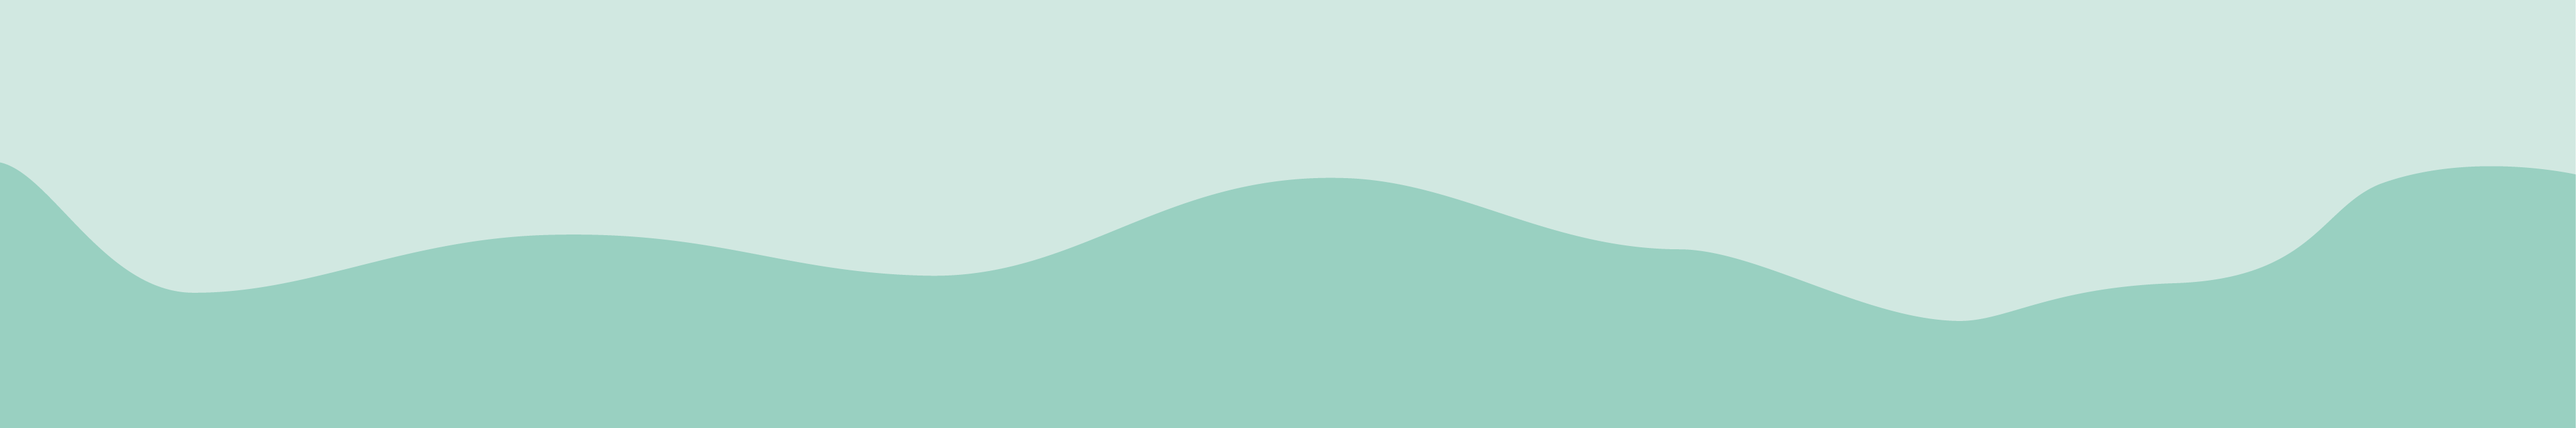
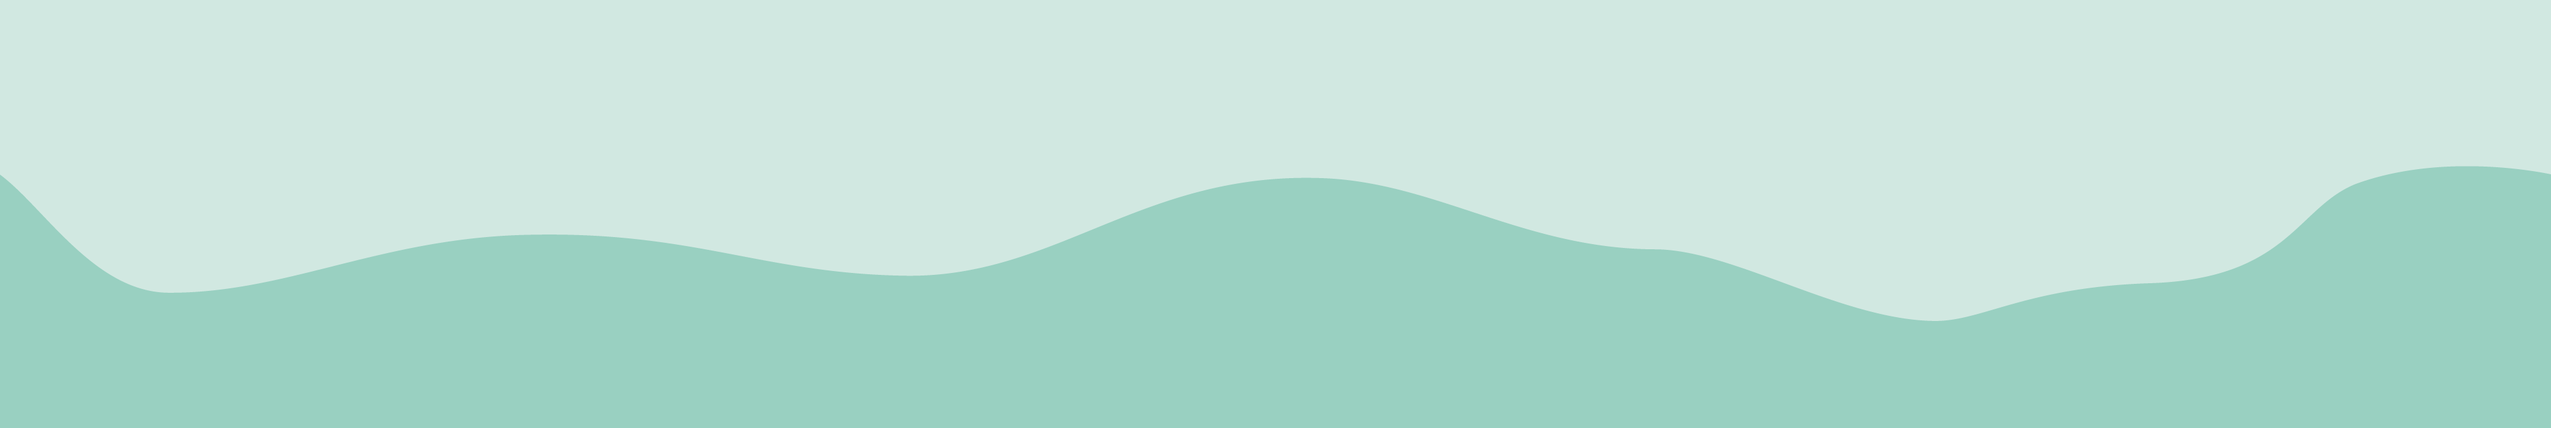
OS2ULF-473: Updated ulf_vejle styles and graphics

diff --git a/css/ulf-styles-vejle.css b/css/ulf-styles-vejle.css
@@ -1,1 +1,1 @@
-.search-results--result,.teaser{display:-webkit-box;display:-webkit-flex;display:-moz-flex;display:-ms-flexbox;display:flex;-webkit-flex-flow:row nowrap;-moz-flex-flow:row nowrap;-ms-flex-flow:row nowrap;flex-flow:row nowrap;-webkit-align-content:stretch;-moz-align-content:stretch;-ms-flex-line-pack:stretch;align-content:stretch;-webkit-box-flex:0;-webkit-flex:0 1 100%;-moz-box-flex:0;-moz-flex:0 1 100%;-ms-flex:0 1 100%;flex:0 1 100%;min-width:0;box-sizing:border-box;position:relative;margin-bottom:2em;border:1px solid #d9d9d9}.is-dagtilbud.search-results--result,.is-dagtilbud.teaser{border-bottom:6px solid #66212f}.is-grundskole.search-results--result,.is-grundskole.teaser{border-bottom:6px solid #23356e}.is-ungdomsuddannelse.search-results--result,.is-ungdomsuddannelse.teaser{border-bottom:6px solid #004139}.is-course.search-results--result,.is-course.teaser{border-bottom:6px solid #57256e}@media only screen and (min-width: 55em){.search-results--result,.teaser{-webkit-box-flex:0;-webkit-flex:0 1 49%;-moz-box-flex:0;-moz-flex:0 1 49%;-ms-flex:0 1 49%;flex:0 1 49%}}.search-results--result header,.teaser header{-webkit-box-ordinal-group:3;-webkit-order:2;-moz-order:2;-ms-flex-order:2;order:2;box-sizing:border-box;padding:1em 1em 0;width:100%}.search-results--result figure,.teaser figure{min-width:0px;-webkit-box-ordinal-group:2;-webkit-order:1;-moz-order:1;-ms-flex-order:1;order:1;-webkit-box-flex:0;-webkit-flex:0 0 100px;-moz-box-flex:0;-moz-flex:0 0 100px;-ms-flex:0 0 100px;flex:0 0 100px}@media only screen and (min-width: 500px){.search-results--result figure,.teaser figure{-webkit-box-flex:0;-webkit-flex:0 0 200px;-moz-box-flex:0;-moz-flex:0 0 200px;-ms-flex:0 0 200px;flex:0 0 200px}}.form-submit,.button,.teaser--list-button,.block--pdf-link,.search--filter-search-submit[type="submit"],.search--filter-dropdown-submit,.entity-paragraphs-item .btn{position:relative;border:1px solid #4a8311;display:inline-block;padding:.4em 1.5em;background-color:#4a8311;color:#fff;cursor:pointer;font-size:100%;text-align:center}.form-submit:focus,.button:focus,.teaser--list-button:focus,.block--pdf-link:focus,.search--filter-search-submit:focus[type="submit"],.search--filter-dropdown-submit:focus,.entity-paragraphs-item .btn:focus,.form-submit:hover,.button:hover,.teaser--list-button:hover,.block--pdf-link:hover,.search--filter-search-submit:hover[type="submit"],.search--filter-dropdown-submit:hover,.entity-paragraphs-item .btn:hover,.form-submit:active,.button:active,.teaser--list-button:active,.block--pdf-link:active,.search--filter-search-submit:active[type="submit"],.search--filter-dropdown-submit:active,.entity-paragraphs-item .btn:active{text-decoration:none;background-color:#31560b;border-color:#31560b}.form-submit,.button,.teaser--list-button{background-color:#4a8311;border:1px solid #4a8311;color:#fff}.form-submit:link,.button:link,.teaser--list-button:link{color:#fff;text-decoration:none}.form-submit:visited,.button:visited,.teaser--list-button:visited{color:#fff;text-decoration:none}.form-submit:hover,.button:hover,.teaser--list-button:hover{color:#fff;text-decoration:none}.form-submit:focus,.button:focus,.teaser--list-button:focus{color:#fff;text-decoration:none}.form-submit:hover,.button:hover,.teaser--list-button:hover{background-color:#31560b;border-color:#31560b}.form-submit:link,.button:link,.teaser--list-button:link{color:#fff;text-decoration:none}body{background:#57256e;font:14px/1.3 "K2D",sans-serif;color:#333}a:link{color:#4a8311;text-decoration:underline}a:visited{color:#3d6c0e}a:hover{color:#31560b;text-decoration:none}a:focus{color:#31560b}.footer{background:#57256e;color:#fff}.footer hr{border-color:#fff}.footer a:link{color:#fff;text-decoration:underline}.footer a:visited{color:#fff;text-decoration:underline}.footer a:hover{color:#fff;text-decoration:underline}.footer a:focus{color:#fff;text-decoration:underline}.sliding-popup-bottom{border-top:2px solid #fff}.footer--eu-compliance-text{color:#fff}#sliding-popup .popup-content #popup-buttons button{background:#4a8311;color:#fff}#sliding-popup .popup-content #popup-buttons button:hover{background:#4a8311}.field--title{background:rgba(255,255,255,0.7);border-color:#17858c}.field--title.is-dagtilbud{border-color:#66212f}.field--title.is-grundskole{border-color:#23356e}.field--title.is-ungdomsuddannelse{border-color:#004139}.field--title.is-course{border-color:#57256e}.field--title.is-profile{border-color:#4a8311}.field--collection-label{color:#fff;background:#4a8311}.nav--static-pages.is-node .nav--list-item-sub a:link{color:#4a8311;text-decoration:none}.nav--static-pages.is-node .nav--list-item-sub a:visited{color:#4a8311;text-decoration:none}.nav--static-pages.is-node .nav--list-item-sub a:hover{color:#4a8311;text-decoration:none}.nav--static-pages.is-node .nav--list-item-sub a:focus{color:#4a8311;text-decoration:none}.block--dark{background:gray;color:#fff}.block--dark a:link{color:#fff;text-decoration:underline}.block--dark a:visited{color:#fff;text-decoration:underline}.block--dark a:hover{color:#fff;text-decoration:underline}.block--dark a:focus{color:#fff;text-decoration:underline}.block--light{background:#ccc}.block--light a:link{color:#4a8311;text-decoration:underline}.block--light a:visited{color:#4a8311;text-decoration:underline}.block--light a:hover{color:#4a8311;text-decoration:underline}.block--light a:focus{color:#4a8311;text-decoration:underline}.block--pdf-link:link{color:#fff;text-decoration:none}.block--pdf-link:visited{color:#fff;text-decoration:none}.block--pdf-link:hover{color:#fff;text-decoration:none}.block--pdf-link:focus{color:#fff;text-decoration:none}.block--newsletter.is-front .form-type-emailfield>input{margin-bottom:1em}.block--field-wrapper{border-bottom:1px solid #fff}.header{height:85px;background:#fff}@media only screen and (min-width: 45em){.header{height:160px;background-image:url(../images/header-bg.png);background-repeat:no-repeat;background-position:center top}}.header--toggle-mobile-nav{background:none}.header--logo-image{height:60px;position:relative;left:2px}@media only screen and (min-width: 45em){.header--logo-image{height:auto;left:0px}}.search--widget{background:#e6e6e6;color:rgba(0,0,0,0.5)}.search--widget.is-daycare,.search--widget.is-daycare .search--filter-dropdown,.search--widget.is-daycare .search--filter-dropdown-submit,.search--widget.is-daycare .search--widget-selected,.search--widget.is-daycare .search--filter-search-submit{background:#66212f;border-color:#66212f}.search--widget.is-school,.search--widget.is-school .search--filter-dropdown,.search--widget.is-school .search--filter-dropdown-submit,.search--widget.is-school .search--widget-selected,.search--widget.is-school .search--filter-search-submit{background:#23356e;border-color:#23356e}.search--widget.is-youth,.search--widget.is-youth .search--filter-dropdown,.search--widget.is-youth .search--filter-dropdown-submit,.search--widget.is-youth .search--widget-selected,.search--widget.is-youth .search--filter-search-submit{background:#004139;border-color:#004139}.search--widget.is-course,.search--widget.is-course .search--filter-dropdown,.search--widget.is-course .search--filter-dropdown-submit,.search--widget.is-course .search--widget-selected,.search--widget.is-course .search--filter-search-submit{background:#57256e;border-color:#57256e}.search--filter-dropdown-header{padding:20px 0 16px}.search--filter-wrapper-user{background:#666}.search--filter-wrapper-inner{background:rgba(255,255,255,0.85)}.search--filter-search-text[type="text"]{border:1px solid #b3b3b3}.search--filter-search-submit[type="submit"]{padding:.4em 1.5em;max-width:35%;position:absolute;right:0}.search--filter-span-text[type="text"]{border:1px solid #b3b3b3}.search--filter-label:link{color:rgba(0,0,0,0.5);text-decoration:none}.search--filter-label:visited{color:rgba(0,0,0,0.5);text-decoration:none}.search--filter-label:hover{color:rgba(0,0,0,0.5);text-decoration:none}.search--filter-label:focus{color:rgba(0,0,0,0.5);text-decoration:none}.search--filter-dropdown{box-shadow:3px 3px 6px gray}.search--filter-dropdown-inner{background:rgba(255,255,255,0.85)}.search--filter-dropdown-submit{display:block;margin:16px;font-size:.9em;padding:.1em 2em}.search--filter-dropdown-submit:link{color:#fff;text-decoration:none}.search--filter-dropdown-submit:visited{color:#fff;text-decoration:none}.search--filter-dropdown-submit:hover{color:#fff;text-decoration:none}.search--filter-dropdown-submit:focus{color:#fff;text-decoration:none}.search--filter-dropdown .disabled{color:rgba(0,0,0,0.2)}.search--widget-filters{background:#e6e6e6}.search--widget-selected{background:#fff}.search--widget-selected-item{background-color:rgba(255,255,255,0.85);border-color:rgba(255,255,255,0.85);color:#999}.search--reset{color:#4d4d4d}.is-course .search--filter-search-submit,.is-daycare .search--filter-search-submit{color:#fff}.teaser--group-inner:link{color:#fff;text-decoration:none}.teaser--group-inner:visited{color:#fff;text-decoration:none}.teaser--group-inner:hover{color:#fff;text-decoration:none}.teaser--group-inner:focus{color:#fff;text-decoration:none}.teaser--group-inner:hover .teaser--group-text.is-dagtilbud{background:#66212f}.teaser--group-inner:hover .teaser--group-text.is-grundskole{background:#23356e}.teaser--group-inner:hover .teaser--group-text.is-ungdomsuddannelse{background:#004139}.teaser--group-inner:hover .teaser--group-text.is-course{background:#57256e}.teaser--group-text{height:90px}.teaser--group-text.is-dagtilbud{background:rgba(102,33,47,0.7)}.teaser--group-text.is-grundskole{background:rgba(35,53,110,0.7)}.teaser--group-text.is-ungdomsuddannelse{background:rgba(0,65,57,0.7)}.teaser--group-text.is-course{background:rgba(102,33,47,0.7)}.teaser--content-header{background-color:#e6e6e6}.teaser{background:#fff}.teaser--list__fullwidth{display:block}.teaser--list__fullwidth .teaser{margin-bottom:0}.teaser--list-button{margin:0 auto}.is-dagtilbud .ribbon{background:#66212f}.is-grundskole .ribbon{background:#23356e}.is-ungdomsuddannelse .ribbon{background:#004139}.ribbon a,.ribbon a:hover{color:#fff;text-decoration:none;border-color:#fff;border-color:rgba(255,255,255,0.7)}.entity-paragraphs-item .btn:link{color:#fff;text-decoration:none}.entity-paragraphs-item .btn:visited{color:#fff;text-decoration:none}.entity-paragraphs-item .btn:hover{color:#fff;text-decoration:none}.entity-paragraphs-item .btn:focus{color:#fff;text-decoration:none}
+.search-results--result,.teaser{display:-webkit-box;display:-webkit-flex;display:-moz-flex;display:-ms-flexbox;display:flex;-webkit-flex-flow:row nowrap;-moz-flex-flow:row nowrap;-ms-flex-flow:row nowrap;flex-flow:row nowrap;-webkit-align-content:stretch;-moz-align-content:stretch;-ms-flex-line-pack:stretch;align-content:stretch;-webkit-box-flex:0;-webkit-flex:0 1 100%;-moz-box-flex:0;-moz-flex:0 1 100%;-ms-flex:0 1 100%;flex:0 1 100%;min-width:0;box-sizing:border-box;position:relative;margin-bottom:2em;border:1px solid #d9d9d9}.is-dagtilbud.search-results--result,.is-dagtilbud.teaser{border-bottom:6px solid #66212f}.is-grundskole.search-results--result,.is-grundskole.teaser{border-bottom:6px solid #23356e}.is-ungdomsuddannelse.search-results--result,.is-ungdomsuddannelse.teaser{border-bottom:6px solid #004139}.is-course.search-results--result,.is-course.teaser{border-bottom:6px solid #57256e}@media only screen and (min-width: 55em){.search-results--result,.teaser{-webkit-box-flex:0;-webkit-flex:0 1 49%;-moz-box-flex:0;-moz-flex:0 1 49%;-ms-flex:0 1 49%;flex:0 1 49%}}.search-results--result header,.teaser header{-webkit-box-ordinal-group:3;-webkit-order:2;-moz-order:2;-ms-flex-order:2;order:2;box-sizing:border-box;padding:1em 1em 0;width:100%}.search-results--result figure,.teaser figure{min-width:0px;-webkit-box-ordinal-group:2;-webkit-order:1;-moz-order:1;-ms-flex-order:1;order:1;-webkit-box-flex:0;-webkit-flex:0 0 100px;-moz-box-flex:0;-moz-flex:0 0 100px;-ms-flex:0 0 100px;flex:0 0 100px}@media only screen and (min-width: 500px){.search-results--result figure,.teaser figure{-webkit-box-flex:0;-webkit-flex:0 0 200px;-moz-box-flex:0;-moz-flex:0 0 200px;-ms-flex:0 0 200px;flex:0 0 200px}}.form-submit,.button,.teaser--list-button,.block--pdf-link,.search--filter-search-submit[type="submit"],.search--filter-dropdown-submit,.entity-paragraphs-item .btn{position:relative;border:1px solid #4a8311;display:inline-block;padding:.4em 1.5em;background-color:#4a8311;color:#fff;cursor:pointer;font-size:100%;text-align:center}.form-submit:focus,.button:focus,.teaser--list-button:focus,.block--pdf-link:focus,.search--filter-search-submit:focus[type="submit"],.search--filter-dropdown-submit:focus,.entity-paragraphs-item .btn:focus,.form-submit:hover,.button:hover,.teaser--list-button:hover,.block--pdf-link:hover,.search--filter-search-submit:hover[type="submit"],.search--filter-dropdown-submit:hover,.entity-paragraphs-item .btn:hover,.form-submit:active,.button:active,.teaser--list-button:active,.block--pdf-link:active,.search--filter-search-submit:active[type="submit"],.search--filter-dropdown-submit:active,.entity-paragraphs-item .btn:active{text-decoration:none;background-color:#31560b;border-color:#31560b}.form-submit,.button,.teaser--list-button{background-color:#4a8311;border:1px solid #4a8311;color:#fff}.form-submit:link,.button:link,.teaser--list-button:link{color:#fff;text-decoration:none}.form-submit:visited,.button:visited,.teaser--list-button:visited{color:#fff;text-decoration:none}.form-submit:hover,.button:hover,.teaser--list-button:hover{color:#fff;text-decoration:none}.form-submit:focus,.button:focus,.teaser--list-button:focus{color:#fff;text-decoration:none}.form-submit:hover,.button:hover,.teaser--list-button:hover{background-color:#31560b;border-color:#31560b}.form-submit:link,.button:link,.teaser--list-button:link{color:#fff;text-decoration:none}body{background:#57256e;font:14px/1.3 "K2D",sans-serif;color:#333}a:link{color:#4a8311;text-decoration:underline}a:visited{color:#3d6c0e}a:hover{color:#31560b;text-decoration:none}a:focus{color:#31560b}.footer{background:#57256e;color:#fff}.footer hr{border-color:#fff}.footer a:link{color:#fff;text-decoration:underline}.footer a:visited{color:#fff;text-decoration:underline}.footer a:hover{color:#fff;text-decoration:underline}.footer a:focus{color:#fff;text-decoration:underline}.sliding-popup-bottom{border-top:2px solid #fff}.footer--eu-compliance-text{color:#fff}#sliding-popup .popup-content #popup-buttons button{background:#4a8311;color:#fff}#sliding-popup .popup-content #popup-buttons button:hover{background:#4a8311}.field--title{background:rgba(255,255,255,0.7);border-color:#17858c}.field--title.is-dagtilbud{border-color:#66212f}.field--title.is-grundskole{border-color:#23356e}.field--title.is-ungdomsuddannelse{border-color:#004139}.field--title.is-course{border-color:#57256e}.field--title.is-profile{border-color:#4a8311}.field--collection-label{color:#fff;background:#4a8311}.nav--static-pages.is-node .nav--list-item-sub a:link{color:#4a8311;text-decoration:none}.nav--static-pages.is-node .nav--list-item-sub a:visited{color:#4a8311;text-decoration:none}.nav--static-pages.is-node .nav--list-item-sub a:hover{color:#4a8311;text-decoration:none}.nav--static-pages.is-node .nav--list-item-sub a:focus{color:#4a8311;text-decoration:none}.block--dark{background:gray;color:#fff}.block--dark a:link{color:#fff;text-decoration:underline}.block--dark a:visited{color:#fff;text-decoration:underline}.block--dark a:hover{color:#fff;text-decoration:underline}.block--dark a:focus{color:#fff;text-decoration:underline}.block--light{background:#ccc}.block--light a:link{color:#4a8311;text-decoration:underline}.block--light a:visited{color:#4a8311;text-decoration:underline}.block--light a:hover{color:#4a8311;text-decoration:underline}.block--light a:focus{color:#4a8311;text-decoration:underline}.block--pdf-link:link{color:#fff;text-decoration:none}.block--pdf-link:visited{color:#fff;text-decoration:none}.block--pdf-link:hover{color:#fff;text-decoration:none}.block--pdf-link:focus{color:#fff;text-decoration:none}.block--newsletter.is-front .form-type-emailfield>input{margin-bottom:1em}.block--field-wrapper{border-bottom:1px solid #fff}.header{height:85px;background:#fff}@media only screen and (min-width: 45em){.header{height:160px;background-image:url(../images/header-bg.png);background-repeat:repeat-x;background-position:center top;background-size:contain}}.header--toggle-mobile-nav{background:none}.header--logo-image{height:60px;position:relative;left:2px}@media only screen and (min-width: 45em){.header--logo-image{height:auto;left:0px}}.search--widget{background:#e6e6e6;color:rgba(0,0,0,0.5)}.search--widget.is-daycare,.search--widget.is-daycare .search--filter-dropdown,.search--widget.is-daycare .search--filter-dropdown-submit,.search--widget.is-daycare .search--widget-selected,.search--widget.is-daycare .search--filter-search-submit{background:#66212f;border-color:#66212f}.search--widget.is-school,.search--widget.is-school .search--filter-dropdown,.search--widget.is-school .search--filter-dropdown-submit,.search--widget.is-school .search--widget-selected,.search--widget.is-school .search--filter-search-submit{background:#23356e;border-color:#23356e}.search--widget.is-youth,.search--widget.is-youth .search--filter-dropdown,.search--widget.is-youth .search--filter-dropdown-submit,.search--widget.is-youth .search--widget-selected,.search--widget.is-youth .search--filter-search-submit{background:#004139;border-color:#004139}.search--widget.is-course,.search--widget.is-course .search--filter-dropdown,.search--widget.is-course .search--filter-dropdown-submit,.search--widget.is-course .search--widget-selected,.search--widget.is-course .search--filter-search-submit{background:#57256e;border-color:#57256e}.search--filter-dropdown-header{padding:20px 0 16px}.search--filter-wrapper-user{background:#666}.search--filter-wrapper-inner{background:rgba(255,255,255,0.85)}.search--filter-search-text[type="text"]{border:1px solid #b3b3b3}.search--filter-search-submit[type="submit"]{padding:.4em 1.5em;max-width:35%;position:absolute;right:0}.search--filter-span-text[type="text"]{border:1px solid #b3b3b3}.search--filter-label:link{color:rgba(0,0,0,0.5);text-decoration:none}.search--filter-label:visited{color:rgba(0,0,0,0.5);text-decoration:none}.search--filter-label:hover{color:rgba(0,0,0,0.5);text-decoration:none}.search--filter-label:focus{color:rgba(0,0,0,0.5);text-decoration:none}.search--filter-dropdown{box-shadow:3px 3px 6px gray}.search--filter-dropdown-inner{background:rgba(255,255,255,0.85)}.search--filter-dropdown-submit{display:block;margin:16px;font-size:.9em;padding:.1em 2em}.search--filter-dropdown-submit:link{color:#fff;text-decoration:none}.search--filter-dropdown-submit:visited{color:#fff;text-decoration:none}.search--filter-dropdown-submit:hover{color:#fff;text-decoration:none}.search--filter-dropdown-submit:focus{color:#fff;text-decoration:none}.search--filter-dropdown .disabled{color:rgba(0,0,0,0.2)}.search--widget-filters{background:#e6e6e6}.search--widget-selected{background:#fff}.search--widget-selected-item{background-color:rgba(255,255,255,0.85);border-color:rgba(255,255,255,0.85);color:#999}.search--reset{color:#4d4d4d}.is-course .search--filter-search-submit,.is-daycare .search--filter-search-submit{color:#fff}.teaser--group-inner:link{color:#fff;text-decoration:none}.teaser--group-inner:visited{color:#fff;text-decoration:none}.teaser--group-inner:hover{color:#fff;text-decoration:none}.teaser--group-inner:focus{color:#fff;text-decoration:none}.teaser--group-inner:hover .teaser--group-text.is-dagtilbud{background:#66212f}.teaser--group-inner:hover .teaser--group-text.is-grundskole{background:#23356e}.teaser--group-inner:hover .teaser--group-text.is-ungdomsuddannelse{background:#004139}.teaser--group-inner:hover .teaser--group-text.is-course{background:#57256e}.teaser--group-text{height:90px}.teaser--group-text.is-dagtilbud{background:rgba(102,33,47,0.7)}.teaser--group-text.is-grundskole{background:rgba(35,53,110,0.7)}.teaser--group-text.is-ungdomsuddannelse{background:rgba(0,65,57,0.7)}.teaser--group-text.is-course{background:rgba(102,33,47,0.7)}.teaser--content-header{background-color:#e6e6e6}.teaser{background:#fff}.teaser--list__fullwidth{display:block}.teaser--list__fullwidth .teaser{margin-bottom:0}.teaser--list-button{margin:0 auto}.is-dagtilbud .ribbon{background:#66212f}.is-grundskole .ribbon{background:#23356e}.is-ungdomsuddannelse .ribbon{background:#004139}.ribbon a,.ribbon a:hover{color:#fff;text-decoration:none;border-color:#fff;border-color:rgba(255,255,255,0.7)}.entity-paragraphs-item .btn:link{color:#fff;text-decoration:none}.entity-paragraphs-item .btn:visited{color:#fff;text-decoration:none}.entity-paragraphs-item .btn:hover{color:#fff;text-decoration:none}.entity-paragraphs-item .btn:focus{color:#fff;text-decoration:none}

diff --git a/sass/theme/_theme-overrides.scss b/sass/theme/_theme-overrides.scss
@@ -176,8 +176,9 @@ a {
     @include breakpoint(45em) {
       height: 160px;
       background-image: url(../images/header-bg.png);
-      background-repeat: no-repeat;
+      background-repeat: repeat-x;
       background-position: center top;
+      background-size: contain;
     }
 
     &--toggle-mobile-nav {
